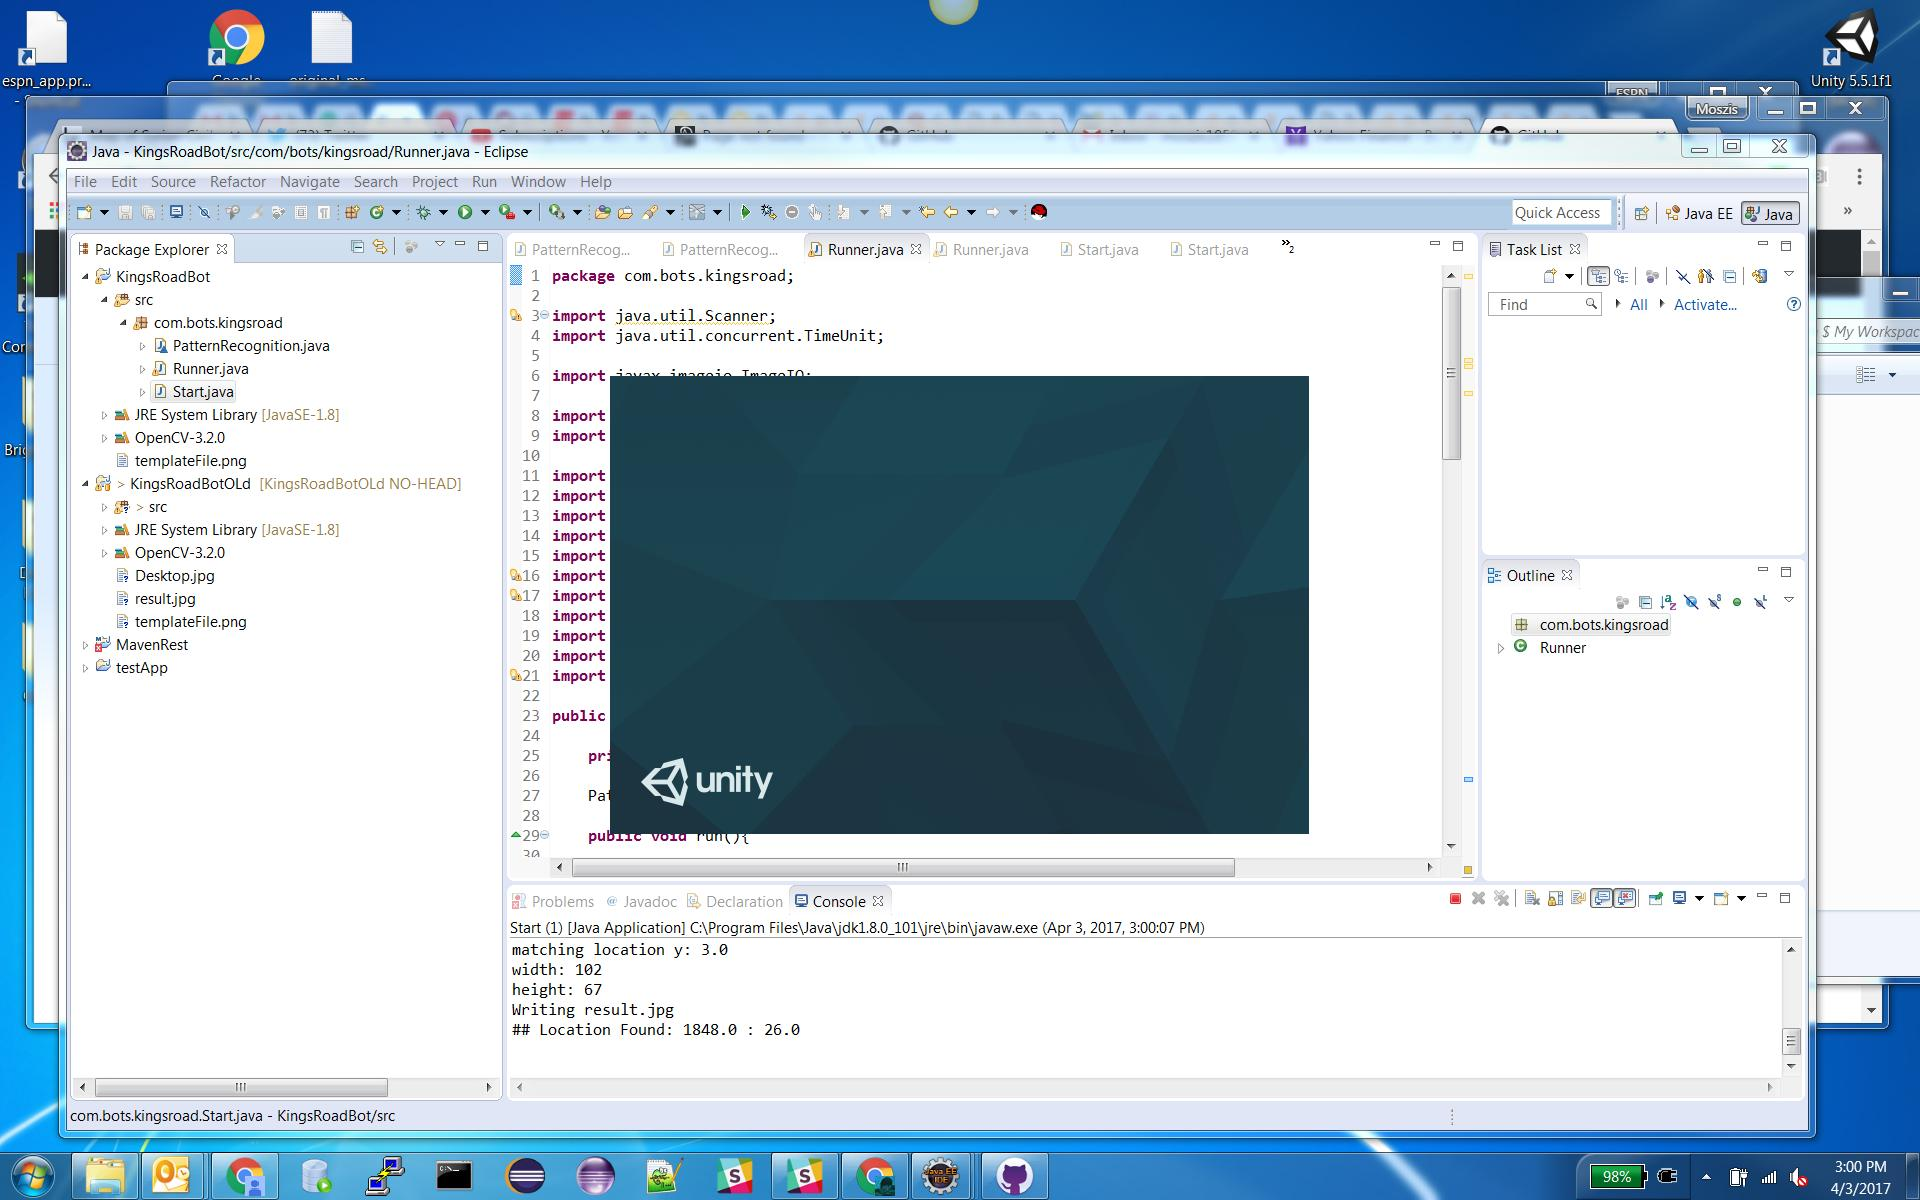
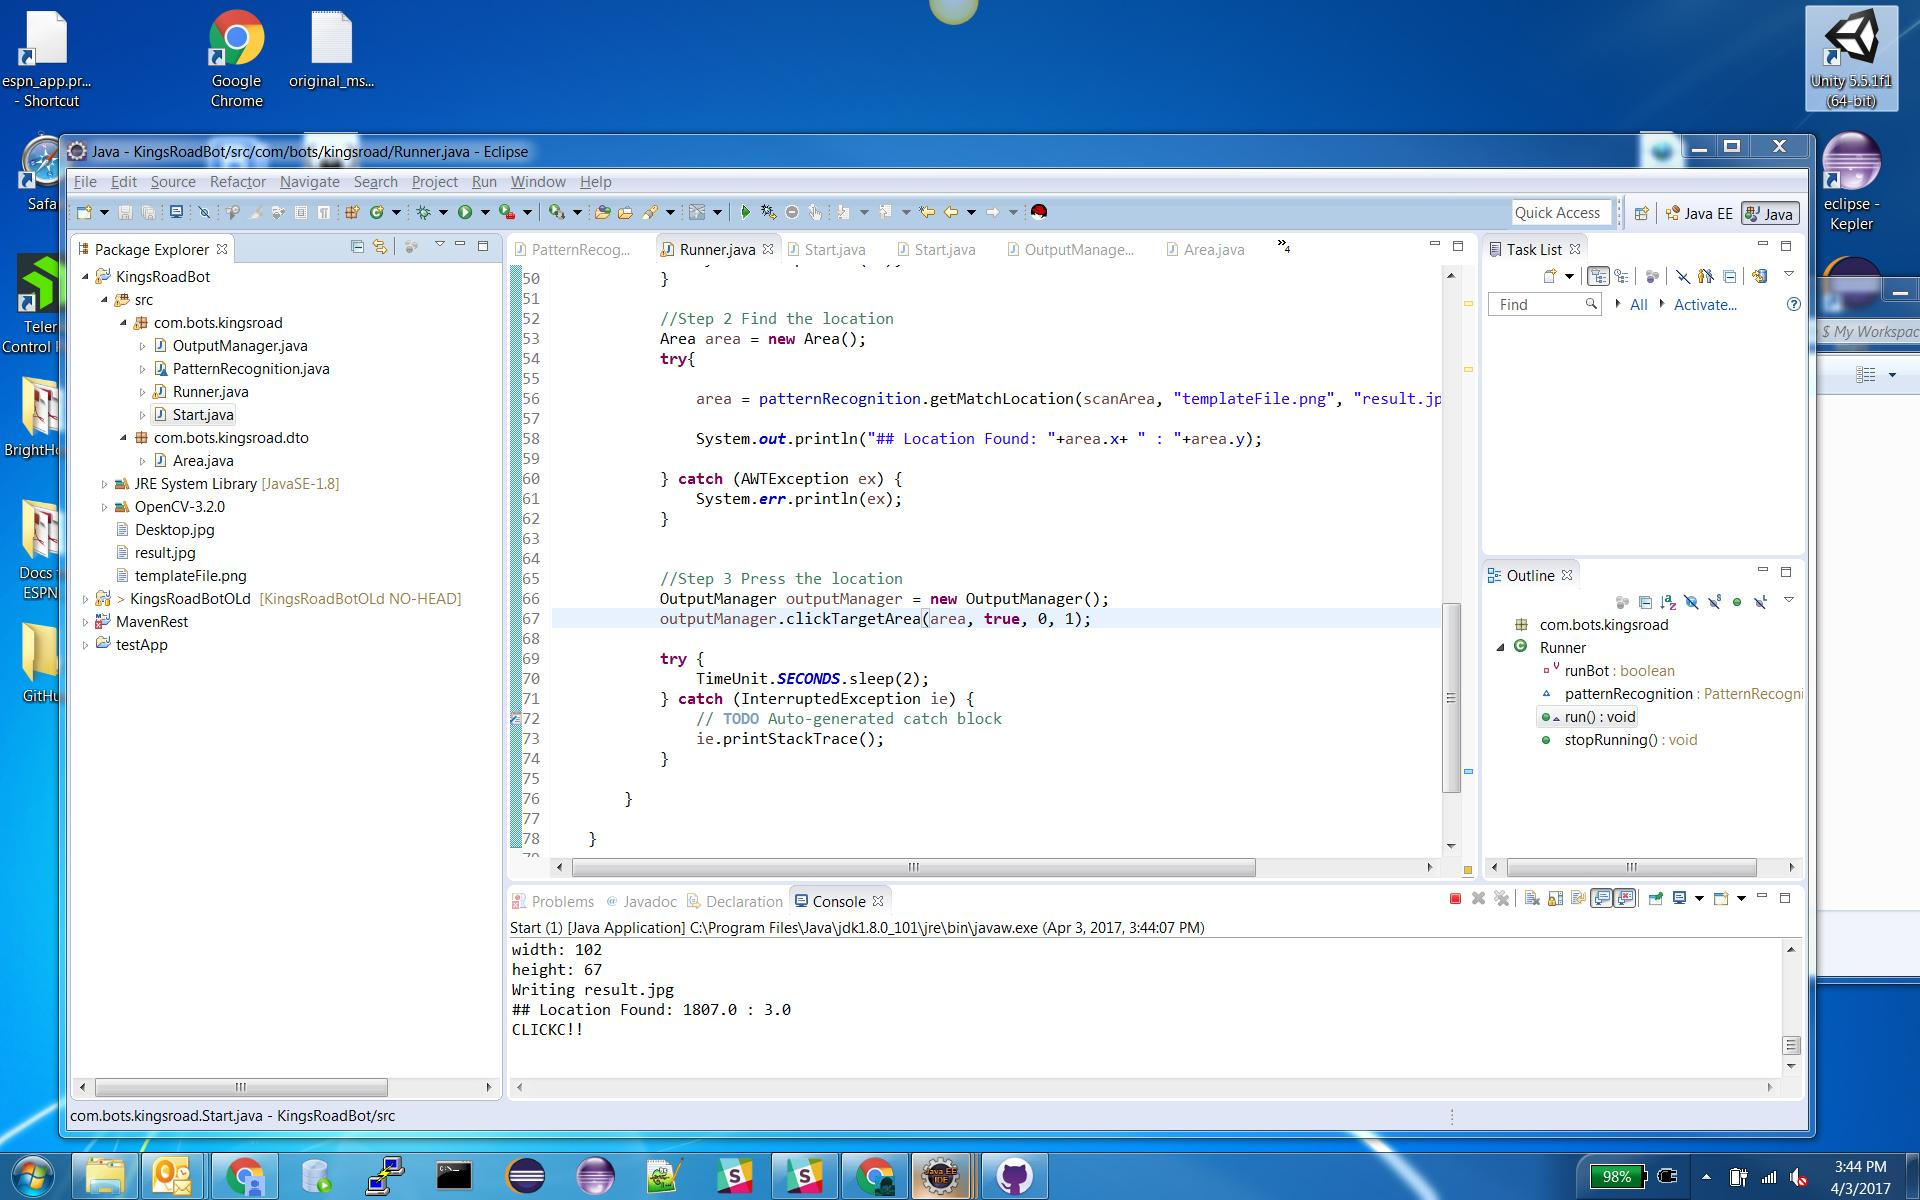
progress

diff --git a/src/com/bots/kingsroad/dto/Area.java b/src/com/bots/kingsroad/dto/Area.java
@@ -1,0 +1,97 @@
+package com.bots.kingsroad.dto;
+
+import java.io.Serializable;
+
+public class Area implements Serializable {
+
+	private static final long serialVersionUID = 1L;
+
+	public double x;
+	
+	public double y;
+	
+	public double centerX;
+	
+	public double centerY;
+	
+	public double width;
+	
+	public double height;
+
+	
+	public double calculateCenterX(){
+		return x+width/2;
+	}
+	
+	public double calculateCenterY(){
+		return y+height/2;
+	}
+	
+	public void generateCenterX(){
+		centerX = calculateCenterX();
+	}
+	
+	public void generateCenterY(){
+		centerY = calculateCenterY();
+	}
+	
+	public double getX() {
+		return x;
+	}
+
+	public void setX(double x) {
+		this.x = x;
+	}
+
+	public double getY() {
+		return y;
+	}
+
+	public void setY(double y) {
+		this.y = y;
+	}
+
+	public double getCenterX() {
+		return centerX;
+	}
+
+	public void setCenterX(double centerX) {
+		this.centerX = centerX;
+	}
+
+	public double getCenterY() {
+		return centerY;
+	}
+
+	public void setCenterY(double centerY) {
+		this.centerY = centerY;
+	}
+
+	public double getWidth() {
+		return width;
+	}
+
+	public void setWidth(double width) {
+		this.width = width;
+	}
+
+	public double getHeight() {
+		return height;
+	}
+
+	public void setHeight(double height) {
+		this.height = height;
+	}
+
+	public static long getSerialversionuid() {
+		return serialVersionUID;
+	}
+
+	@Override
+	public String toString() {
+		return "Area [x=" + x + ", y=" + y + ", centerX=" + centerX + ", centerY=" + centerY + ", width=" + width
+				+ ", height=" + height + "]";
+	}
+
+	
+}

diff --git a/src/com/bots/kingsroad/Runner.java b/src/com/bots/kingsroad/Runner.java
@@ -7,6 +7,8 @@ import javax.imageio.ImageIO;
 import org.opencv.core.Point;
 import org.opencv.imgproc.Imgproc;
 
+import com.bots.kingsroad.dto.Area;
+
 import java.awt.AWTException;
 import java.awt.Rectangle;
 import java.awt.Robot;
@@ -48,12 +50,12 @@ public class Runner extends Thread{
 	        }
             
 	    	//Step 2 Find the location
-	    	Point matchLoc = new Point();
+	    	Area area = new Area();
 	    	try{
 	    		
-	    		matchLoc = patternRecognition.getMatchLocation(scanArea, "templateFile.png", "result.jpg", Imgproc.TM_CCOEFF);
+	    		area = patternRecognition.getMatchLocation(scanArea, "templateFile.png", "result.jpg", Imgproc.TM_CCOEFF);
 	    	
-	    		System.out.println("## Location Found: "+matchLoc.x+ " : "+matchLoc.y);
+	    		System.out.println("## Location Found: "+area.x+ " : "+area.y);
 	    		
 	        } catch (AWTException ex) {
 	            System.err.println(ex);
@@ -61,14 +63,8 @@ public class Runner extends Thread{
             
 	    	
 	    	//Step 3 Press the location
-	    	try{
-	            Robot bot = new Robot();
-	            bot.mouseMove((int)matchLoc.x, (int)matchLoc.y);           
-	            bot.mousePress(InputEvent.BUTTON1_MASK);
-	            bot.mouseRelease(InputEvent.BUTTON1_MASK);
-	    	}catch (Exception e){
-	    		System.err.println(e);
-	    	}
+            OutputManager outputManager = new OutputManager();
+            outputManager.clickTargetArea(area, true, 0, 1);
 	    	
 	    	try {
 				TimeUnit.SECONDS.sleep(2);

diff --git a/src/com/bots/kingsroad/PatternRecognition.java b/src/com/bots/kingsroad/PatternRecognition.java
@@ -9,12 +9,15 @@ import org.opencv.core.Scalar;
 import org.opencv.imgcodecs.Imgcodecs;
 import org.opencv.imgproc.Imgproc;
 
+import com.bots.kingsroad.dto.Area;
+
 import java.awt.AWTException;
+
 
 
 class PatternRecognition {
 	
-    public Point getMatchLocation(String inFile, String templateFile, String outFile,
+    public Area getMatchLocation(String inFile, String templateFile, String outFile,
             int match_method) throws AWTException {
     	System.loadLibrary(Core.NATIVE_LIBRARY_NAME);
         System.out.println("\nRunning Template Matching");
@@ -53,6 +56,16 @@ class PatternRecognition {
         System.out.println("width: "+templ.cols());
         System.out.println("height: "+templ.rows());
         
+        
+        Area area = new Area();
+        area.x = matchLoc.x;
+        area.y = matchLoc.y;
+        area.width = templ.cols();
+        area.height = templ.rows();
+        area.generateCenterX();
+        area.generateCenterY();
+      
+        
         // / Show me what you got
         Imgproc.rectangle(img, matchLoc, new Point(matchLoc.x + templ.cols(),
                 matchLoc.y + templ.rows()), new Scalar(0, 255, 0));
@@ -67,7 +80,7 @@ class PatternRecognition {
         System.out.println("Writing " + outFile);
         Imgcodecs.imwrite(outFile, img);
         
-        return matchLoc;
+        return area;
     }
 }
 

diff --git a/src/com/bots/kingsroad/OutputManager.java b/src/com/bots/kingsroad/OutputManager.java
@@ -1,0 +1,33 @@
+package com.bots.kingsroad;
+
+import java.awt.Robot;
+import java.awt.event.InputEvent;
+
+import com.bots.kingsroad.dto.Area;
+
+public class OutputManager {
+
+	public boolean clickTargetArea(Area area, boolean clickCenter, int ranCenterOffset, int numClicks){
+		
+		//TODO: write random logic; for now just click center
+		
+    	try{
+            Robot bot = new Robot();
+            bot.mouseMove((int)area.centerX, (int)area.centerY);    
+            
+            for(int x = 0; x < numClicks; x++){
+            	System.out.println("CLICKC!!");
+	            bot.mousePress(InputEvent.BUTTON1_MASK);
+	            bot.mouseRelease(InputEvent.BUTTON1_MASK);
+	            Thread.sleep(50);
+            }
+            return true;
+    	}catch (Exception e){
+    		System.err.println(e);
+    		
+    		return false;
+    	}
+    	
+		
+	}
+}
